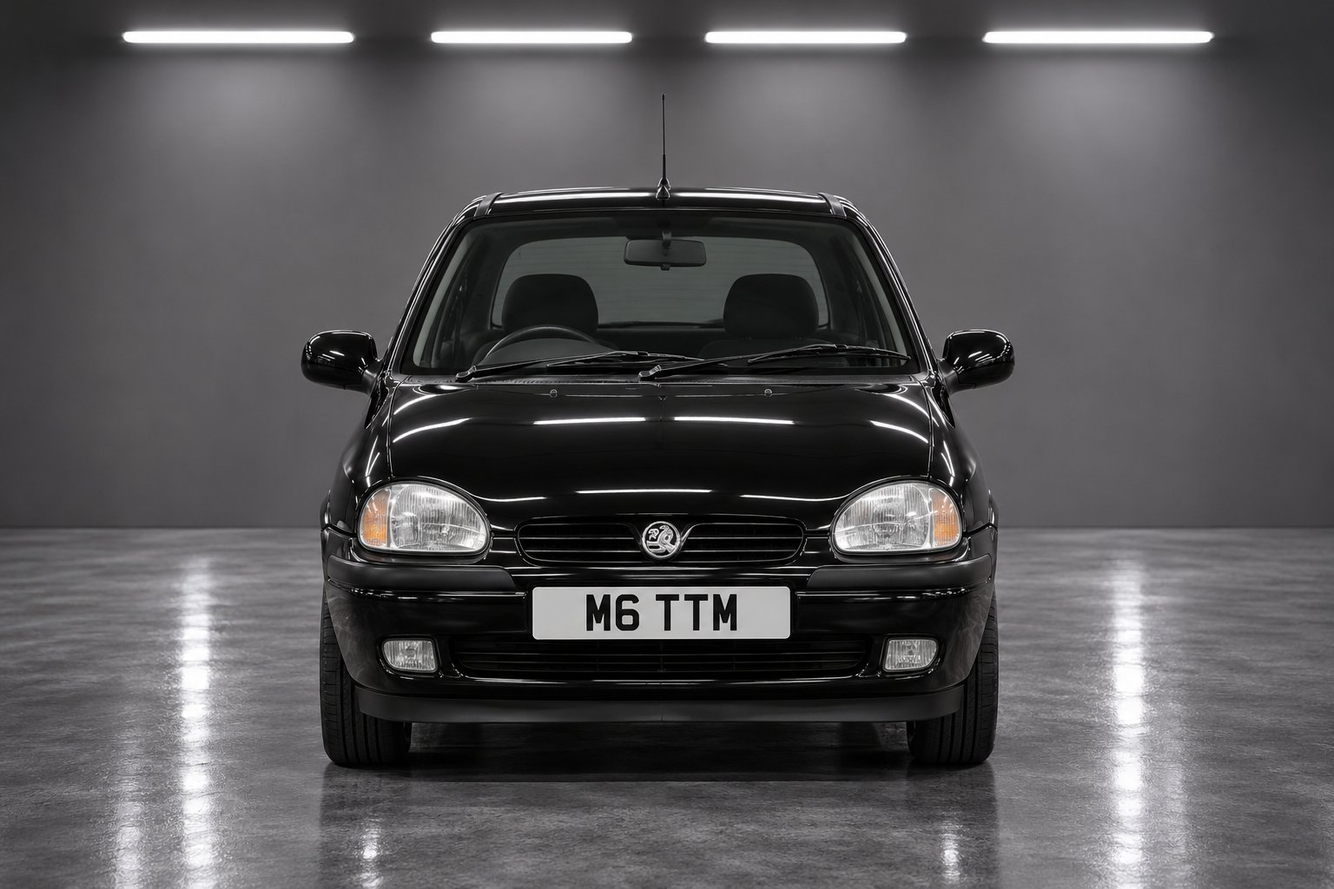
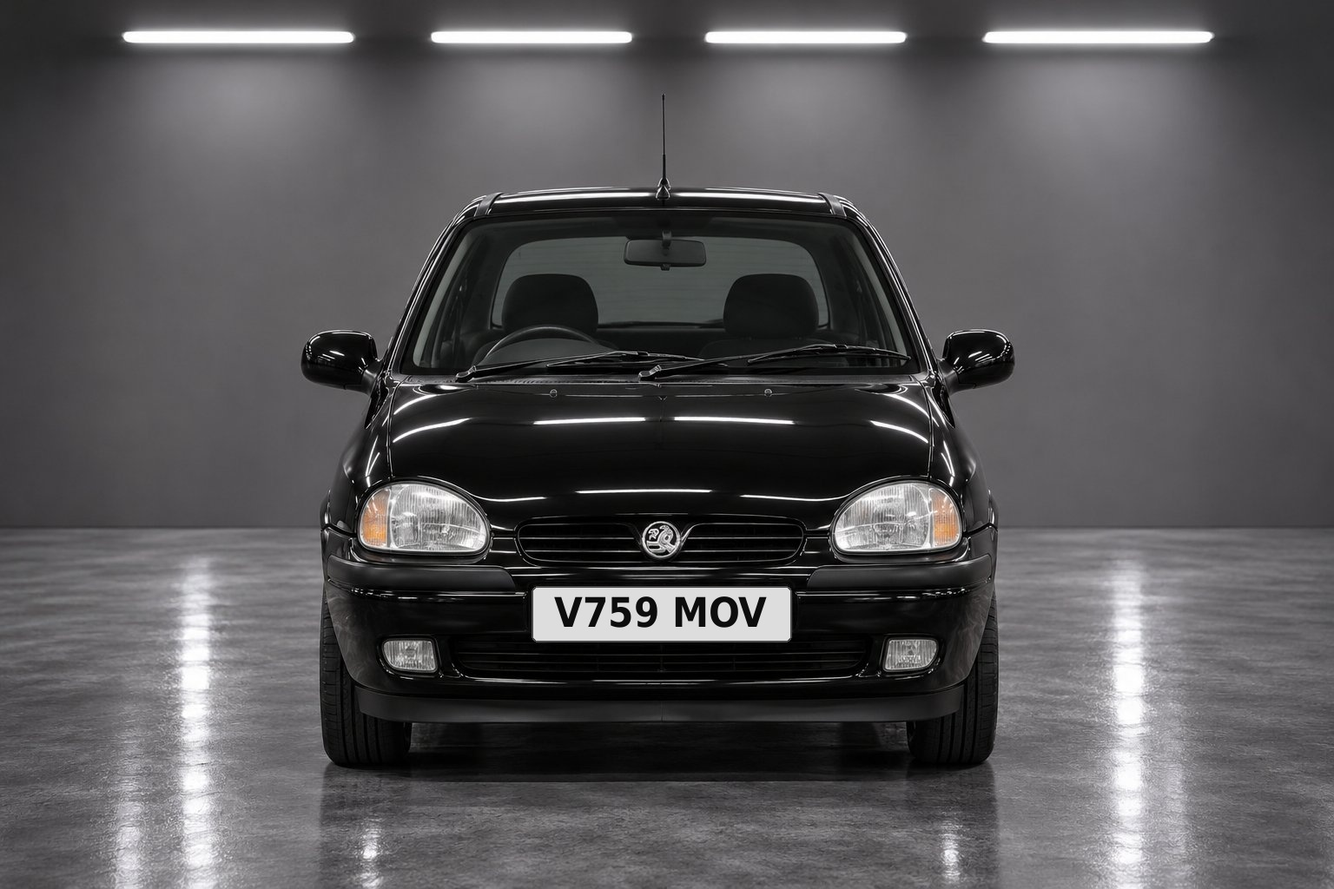
Add files via upload

Changed region(s): [[0.375, 0.6562, 0.5938, 0.75]]

diff --git a/index.html b/index.html
@@ -1,4 +1,4 @@
-<!doctype html><html lang="en"><head><meta charset="utf-8"><meta name="viewport" content="width=device-width,initial-scale=1,viewport-fit=cover"><meta name="theme-color" content="#0b0e13"><meta name="apple-mobile-web-app-capable" content="yes"><meta name="apple-mobile-web-app-title" content="MALONE GARAGE"><title>MALONE GARAGE</title><link rel="manifest" href="manifest.webmanifest?v=19"><link rel="apple-touch-icon" sizes="180x180" href="apple-touch-icon.png?v=19"><link rel="icon" type="image/png" href="icon.png?v=19"><style>
+<!doctype html><html lang="en"><head><meta charset="utf-8"><meta name="viewport" content="width=device-width,initial-scale=1,viewport-fit=cover"><meta name="theme-color" content="#0b0e13"><meta name="apple-mobile-web-app-capable" content="yes"><meta name="apple-mobile-web-app-title" content="MALONE GARAGE"><title>MALONE GARAGE</title><link rel="manifest" href="manifest.webmanifest?v=20"><link rel="apple-touch-icon" sizes="180x180" href="apple-touch-icon.png?v=19"><link rel="icon" type="image/png" href="icon.png?v=19"><style>
 :root{color-scheme:dark;--bg:#0b0e13;--card:#171c25;--line:#303744;--muted:#9ca8ba;--gold:#d7b987;--white:#f6f7f9}*{box-sizing:border-box}body{margin:0;background:var(--bg);color:var(--white);font:15px -apple-system,BlinkMacSystemFont,'Segoe UI',sans-serif}button,input,select,textarea{font:inherit}button{cursor:pointer}header{padding:28px 20px 18px;background:linear-gradient(140deg,#202631,#0b0e13);border-bottom:1px solid var(--line)}.eyebrow{letter-spacing:3px;font-size:10px;color:var(--gold);font-weight:700}.brand{font-size:27px;letter-spacing:3px;font-weight:750;margin:7px 0}.sub{color:var(--muted);font-size:12px}main{max-width:820px;margin:auto;padding:18px 16px 110px}.hero{border:1px solid #3d424c;border-radius:20px;overflow:hidden;position:relative;background:#111}.hero img{width:100%;display:block}.hero .overlay{position:absolute;inset:auto 0 0;padding:35px 18px 14px;background:linear-gradient(transparent,#080a0df0)}h2{font-size:19px;letter-spacing:.4px;margin:25px 0 13px}h3{margin:0 0 8px;font-size:16px}.stats{display:grid;grid-template-columns:repeat(3,1fr);gap:9px;margin-top:14px}.stat,.panel{border:1px solid var(--line);background:var(--card);border-radius:15px;padding:15px}.stat strong{display:block;font-size:25px;margin-top:5px}.muted{color:var(--muted)}.tiny{font-size:11px}.cars{display:grid;grid-template-columns:repeat(2,minmax(0,1fr));gap:12px}.car{border:1px solid var(--line);background:linear-gradient(#222833,#141820);border-radius:16px;overflow:hidden;text-align:left;color:white;padding:0}.car img{width:100%;height:125px;object-fit:cover;display:block}.car .details{padding:12px}.car b{display:block;font-size:14px}.car small{display:block;color:var(--muted);margin-top:4px}.plate{display:inline-block;background:#f3f3ef;color:#161616;border-radius:4px;font-weight:800;letter-spacing:1px;padding:4px 7px;margin-top:8px;font-size:11px}.event{display:flex;gap:12px;align-items:center;border-bottom:1px solid var(--line);padding:13px 0}.event:last-child{border:0}.event .when{min-width:66px;text-align:center;background:#252b36;border-radius:9px;padding:8px 5px;font-weight:750;font-size:12px}.event .when.soon{color:#f2bc72}.event .when.late{color:#ff8585}.event .body{flex:1}.event .body b{display:block;font-size:13px}.event .body small{color:var(--muted)}.btn{background:var(--gold);border:0;border-radius:11px;color:#111;padding:11px 14px;font-weight:750}.btn.secondary{background:#29313d;color:white;border:1px solid #424b59}.btn.small{padding:7px 10px;font-size:12px}.actions{display:flex;gap:8px;flex-wrap:wrap;margin-top:12px}.nav{position:fixed;bottom:0;left:0;right:0;background:#10141bed;border-top:1px solid var(--line);display:flex;justify-content:center;padding:10px 6px calc(10px + env(safe-area-inset-bottom));backdrop-filter:blur(15px);z-index:10}.nav button{flex:1;max-width:180px;background:none;color:var(--muted);border:0;font-size:12px;padding:8px}.nav button.active{color:var(--gold)}.screen{display:none}.screen.active{display:block}.back{background:none;border:0;color:var(--gold);padding:8px 0 16px}.detail-img{width:100%;max-height:290px;object-fit:cover;border-radius:16px}.fields{display:grid;grid-template-columns:1fr 1fr;gap:10px}.field label{display:block;font-size:12px;color:var(--muted);margin-bottom:6px}.field input,.field select,.field textarea{width:100%;background:#0f131a;border:1px solid #414a59;border-radius:9px;padding:11px;color:white;min-width:0}.field.full{grid-column:1/-1}.item{display:flex;justify-content:space-between;gap:8px;border-bottom:1px solid var(--line);padding:11px 0}.item:last-child{border:0}.item small{color:var(--muted)}.link{color:var(--gold)}.empty{padding:25px;text-align:center;color:var(--muted)}.notice{background:#24211b;border:1px solid #655337;border-radius:12px;padding:12px;color:#e8d4b6;font-size:12px;margin-top:12px}.pill{font-size:10px;letter-spacing:1px;color:var(--gold);text-transform:uppercase}.wide{width:100%}a{color:var(--gold)}@media(min-width:650px){.cars{grid-template-columns:repeat(3,1fr)}.car img{height:160px}}
 
 /* v1.5 showroom portraits */
@@ -7,17 +7,27 @@ header{padding:20px 18px 15px}main{width:100%;max-width:980px;padding:16px 14px 
 .reminder-state{padding:12px;background:#101722;border:1px solid #3b4758;border-radius:11px;font-size:13px;line-height:1.6;margin:12px 0}.reminder-state b{color:var(--gold)}.reminder-state.error{border-color:#a46a54}.settings-grid{display:grid;gap:12px}.settings-grid .field input{font-size:16px}
 .sold-grid{display:grid;grid-template-columns:repeat(2,minmax(0,1fr));gap:12px}.sold-card{border:1px solid var(--line);background:var(--card);border-radius:16px;overflow:hidden;min-width:0}.sold-card img{display:block;width:100%;aspect-ratio:1.4/1;object-fit:cover;cursor:zoom-in}.sold-card .details{padding:11px}.sold-card b{display:block;font-size:13px}.sold-card small{color:var(--muted)}.sold-card .field{margin-top:9px}.sold-card input,.sold-card textarea{width:100%;background:#0f131a;color:white;border:1px solid #414a59;border-radius:7px;padding:8px;font-size:14px}.sold-card textarea{resize:vertical}.sold-card summary{color:var(--gold);font-size:12px;margin-top:10px;cursor:pointer}@media(min-width:650px){.sold-grid{grid-template-columns:repeat(3,minmax(0,1fr))}}
 .sold-lightbox{position:fixed;inset:0;z-index:10000;background:rgba(3,5,9,.96);display:none;align-items:center;justify-content:center;flex-direction:column;padding:calc(60px + env(safe-area-inset-top)) 12px calc(30px + env(safe-area-inset-bottom))}.sold-lightbox.open{display:flex}.sold-lightbox img{display:block;max-width:100%;max-height:75dvh;object-fit:contain;border-radius:10px}.sold-lightbox .caption{color:#e7e9ee;font-weight:600;text-align:center;margin-top:14px}.sold-lightbox .close{position:absolute;right:18px;top:calc(16px + env(safe-area-inset-top));color:white;background:#242a34;border:1px solid #626c7a;border-radius:50%;width:45px;height:45px;font-size:28px;line-height:1;cursor:pointer}.sold-card img:focus-visible{outline:3px solid var(--gold)}
+
+/* v2.0: prevent plates overlapping subtitle text on narrow iPhone cards */
+.sold-card .details{min-width:0;display:flex;flex-direction:column;align-items:stretch;gap:5px;padding:12px 10px 14px}
+.sold-card .details b{font-size:clamp(13px,3.3vw,16px);line-height:1.3;overflow-wrap:anywhere}
+.sold-card .sold-subtitle{display:block;font-size:12px;line-height:1.4;overflow-wrap:anywhere}
+.sold-card .sold-plate-row{display:block;min-height:26px;margin-top:3px}
+.sold-card .sold-plate-row .plate{display:inline-block;position:static;margin:0;max-width:100%;font-size:12px;white-space:nowrap}
+.sold-card details{margin-top:2px}
+.sold-card summary{line-height:1.4;overflow-wrap:anywhere}
 </style></head><body><header><div class="eyebrow">PRIVATE MOTOR COLLECTION</div><div class="brand">MALONE <span style="color:var(--gold)">GARAGE</span></div><div class="sub">Your collection. Every deadline. One place.</div></header><main>
 <section id="home" class="screen active"><div class="hero brand-hero"><img src="garage-logo.jpg" alt="Malone Garage premium private motor collection logo"></div><div class="stats"><div class="stat"><span class="tiny muted">VEHICLES</span><strong>5</strong></div><div class="stat"><span class="tiny muted">NEXT 30 DAYS</span><strong id="countSoon">0</strong></div><div class="stat"><span class="tiny muted">DATES TO ADD</span><strong id="countMissing">0</strong></div></div><h2>Upcoming deadlines</h2><div class="panel" id="homeEvents"></div><h2>Your collection</h2><div class="cars" id="homeCars"></div></section>
 <section id="garage" class="screen"><h2>My garage</h2><div class="cars" id="garageCars"></div></section>
-<section id="sold" class="screen"><h2>Sold collection</h2><p class="muted">Tap any photograph to enlarge · Seven previously owned cars · A personal archive, not included in live deadlines or push reminders.</p><div class="sold-grid" id="soldCars"></div><p class="tiny muted">Showroom images are AI recreations, not photographs of the actual vehicles. M6 TTM was transferred between vehicles.</p></section><section id="upcoming" class="screen"><h2>All deadlines</h2><div class="panel" id="allEvents"></div><div class="notice">Dates are user-entered until independently verified. Government lookups are available after connecting your secure API gateway. Insurance and service dates remain manual.</div></section>
+<section id="sold" class="screen"><h2>Sold collection</h2><p class="muted">Tap any photograph to enlarge · Eight previously owned cars · A personal archive, not included in live deadlines or push reminders.</p><div class="sold-grid" id="soldCars"></div><p class="tiny muted">Showroom images are AI recreations, not photographs of the actual vehicles. M6 TTM was transferred between vehicles.</p></section><section id="upcoming" class="screen"><h2>All deadlines</h2><div class="panel" id="allEvents"></div><div class="notice">Dates are user-entered until independently verified. Government lookups are available after connecting your secure API gateway. Insurance and service dates remain manual.</div></section>
 <section id="settings" class="screen"><h2>Garage settings</h2><div class="panel"><h3>Protect your records</h3><p class="muted">Your data is stored in this browser on this device. Back it up before clearing Safari data or changing phones.</p><div class="actions"><button class="btn" onclick="backup()">Export backup</button><button class="btn secondary" onclick="document.getElementById('importFile').click()">Import backup</button><input type="file" accept="application/json" id="importFile" hidden onchange="restore(event)"></div></div><h2>iPhone push reminders</h2><div class="panel"><p class="muted">MOT, tax, insurance and service: a notification 30 days before the due date, then 7 days before if the date is still outstanding. Notifications require the secure reminder service below.</p><div class="settings-grid"><div class="field"><label>OneSignal App ID (public identifier)</label><input id="pushAppId" placeholder="xxxxxxxx-xxxx-xxxx-xxxx-xxxxxxxxxxxx" autocomplete="off"></div><div class="field"><label>Cloudflare reminder Worker URL</label><input id="pushWorkerUrl" type="url" placeholder="https://malone-reminders.yourname.workers.dev" autocomplete="off"></div></div><div class="actions"><button class="btn secondary" onclick="savePushSettings()">Save reminder connection</button><button class="btn" onclick="enablePush()">Enable iPhone notifications</button><button class="btn secondary" onclick="syncReminders()">Sync deadlines now</button></div><div id="pushStatus" class="reminder-state" role="status">Not configured. Follow PUSH-SETUP.md in the download.</div><p class="tiny muted">On iPhone: open this site in Safari → Share → Add to Home Screen → launch from the new icon → Enable. Your due dates are uploaded to your private reminder service only when you enable/sync. Do not put any secret API keys in this app.</p><div class="actions"><button class="btn secondary small" onclick="loadPushHistory()">View sent reminder history</button></div><div id="pushHistory" class="tiny muted"></div></div><h2>Government API connection</h2><div class="panel"><p class="muted">Enter the URL of your deployed private Cloudflare Worker gateway. Do not enter government API keys here.</p><div class="field"><label>Secure gateway URL</label><input id="gatewayUrl" type="url" placeholder="https://malone-garage-api.yourname.workers.dev"></div><div class="actions"><button class="btn secondary" onclick="saveGateway()">Save connection</button></div><p class="tiny muted" id="gatewayStatus"></p></div><h2>Official checks</h2><div class="panel"><p><a href="https://www.gov.uk/check-mot-history" target="_blank">DVSA MOT history ↗</a></p><p><a href="https://www.gov.uk/check-vehicle-tax" target="_blank">DVLA vehicle tax ↗</a></p><p><a href="https://www.gov.uk/get-vehicle-information-from-dvla" target="_blank">DVLA vehicle details ↗</a></p></div><div class="notice">Push alerts only work after OneSignal, Cloudflare Worker and D1 are configured and notifications are allowed on your installed iPhone app. The app cannot automatically import iPhone files.</div></section>
 <section id="detail" class="screen"><button class="back" onclick="go('garage')">← All vehicles</button><img id="detailImg" class="detail-img"><h2 id="detailTitle"></h2><div class="pill" id="detailPlate"></div><h2>Key dates & records</h2><div class="panel"><div class="fields" id="editFields"></div><div class="actions"><button class="btn wide" onclick="saveVehicle()">Save vehicle details</button></div></div><h2>Service history & notes</h2><div class="panel"><div id="history"></div><div class="fields" style="margin-top:15px"><div class="field"><label>Record date</label><input id="recDate" type="date"></div><div class="field"><label>Type</label><select id="recType"><option>Service</option><option>MOT</option><option>Repair</option><option>Insurance</option><option>Tax</option><option>Other</option></select></div><div class="field full"><label>Work carried out / notes</label><textarea id="recNote" rows="2" placeholder="Oil service, new tyres, advisories..."></textarea></div><div class="field"><label>Cost (£)</label><input id="recCost" type="number" min="0" step="0.01" placeholder="Optional"></div><div class="field"><label>Mileage</label><input id="recMiles" type="number" min="0" placeholder="Optional"></div></div><div class="actions"><button class="btn secondary wide" onclick="addRecord()">+ Add history entry</button></div></div><h2>Official records</h2><div class="panel"><p class="muted tiny">Retrieve live DVLA tax and MOT status, and DVSA MOT test history, using your secure gateway. Existing manual dates are only replaced when official data is returned.</p><button class="btn wide" id="syncBtn" onclick="syncOfficial()">↻ Refresh official records</button><div id="officialResult" class="tiny muted" style="margin-top:12px"></div></div><div class="actions"><button class="btn secondary" onclick="window.open('https://www.gov.uk/check-mot-history','_blank')">Check MOT</button><button class="btn secondary" onclick="window.open('https://www.gov.uk/check-vehicle-tax','_blank')">Check tax</button></div></section>
 </main><nav class="nav"><button data-nav="home" class="active" onclick="go('home')">⌂<br>Overview</button><button data-nav="garage" onclick="go('garage')">▤<br>Garage</button><button data-nav="sold" onclick="go('sold')">◇<br>Sold</button><button data-nav="upcoming" onclick="go('upcoming')">◷<br>Deadlines</button><button data-nav="settings" onclick="go('settings')">⚙<br>Settings</button></nav>
 <div id="soldLightbox" class="sold-lightbox" role="dialog" aria-modal="true" aria-label="Enlarged sold car photograph" onclick="closeSoldPhoto()"><button class="close" aria-label="Close enlarged photograph" onclick="closeSoldPhoto()">×</button><img id="soldLightboxImg" alt=""><div class="caption" id="soldLightboxCaption"></div></div><script>
 const defaults=[{id:'defender',name:'Land Rover Defender 90',year:2012,plate:'MJI 190',image:'defender.jpg?v=15'},{id:'mclaren',name:'McLaren 570GT',year:2018,plate:'M6 TTM',image:'mclaren.jpg?v=15'},{id:'morgan',name:'Morgan 4/4',year:2011,plate:'TJI 190',image:'morgan.jpg?v=15'},{id:'micra',name:'Nissan Micra',year:2026,plate:'DV76 YGJ',image:'micra.jpg?v=16'},{id:'porsche',name:'Porsche Cayenne E-Hybrid',year:2024,plate:'VX24 RMO',image:'porsche.jpg?v=13'}];
 const soldDefaults=[
-{id:'corsa',name:'Vauxhall Corsa B',subtitle:'V-registration · black',image:'sold-corsa.jpg'},
+{id:'corsa-blue',name:'Vauxhall Corsa B',subtitle:'Blue · three-door',image:'sold-corsa-blue.png',plate:''},
+{id:'corsa',name:'Vauxhall Corsa B',subtitle:'V-registration · black',image:'sold-corsa.jpg',plate:'V759 MOV'},
 {id:'megane',name:'Renault Mégane Convertible',subtitle:'Original shape · black',image:'sold-megane.jpg'},
 {id:'rx8',name:'Mazda RX-8',subtitle:'Black',image:'sold-rx8.jpg'},
 {id:'tt',name:'Audi TT Roadster',subtitle:'First generation · black',image:'sold-tt.jpg'},
@@ -26,10 +36,10 @@ const soldDefaults=[
 {id:'i8',name:'BMW i8',subtitle:'Dark grey · blue accents',image:'sold-i8.jpg'}];
 let soldData={};try{soldData=JSON.parse(localStorage.getItem('maloneGarageSoldV1'))||{}}catch(e){}
 function soldSave(id,field,value){if(!soldData[id])soldData[id]={};soldData[id][field]=value;localStorage.setItem('maloneGarageSoldV1',JSON.stringify(soldData))}
-function openSoldPhoto(id){const v=soldDefaults.find(x=>x.id===id);if(!v)return;const box=document.getElementById('soldLightbox');const img=document.getElementById('soldLightboxImg');img.src=v.image+'?v=18';img.alt=v.name+' showroom recreation';document.getElementById('soldLightboxCaption').textContent=v.name+' · M6 TTM';box.classList.add('open');document.body.style.overflow='hidden'}
+function openSoldPhoto(id){const v=soldDefaults.find(x=>x.id===id);if(!v)return;const box=document.getElementById('soldLightbox');const img=document.getElementById('soldLightboxImg');img.src=v.image+'?v=20';img.alt=v.name+' showroom recreation';document.getElementById('soldLightboxCaption').textContent=v.name+(v.plate===undefined?' · M6 TTM':(v.plate?' · '+v.plate:''));box.classList.add('open');document.body.style.overflow='hidden'}
 function closeSoldPhoto(){document.getElementById('soldLightbox').classList.remove('open');document.body.style.overflow=''}
 document.addEventListener('keydown',e=>{if(e.key==='Escape')closeSoldPhoto()});
-function renderSold(){document.getElementById('soldCars').innerHTML=soldDefaults.map(v=>{const d=soldData[v.id]||{};return `<article class="sold-card"><img loading="lazy" src="${v.image}?v=18" alt="${esc(v.name)} showroom recreation. Tap to enlarge" role="button" tabindex="0" onclick="openSoldPhoto('${v.id}')" onkeydown="if(event.key==='Enter'||event.key===' '){event.preventDefault();openSoldPhoto('${v.id}')}"><div class="details"><b>${esc(v.name)}</b><small>${esc(v.subtitle)}</small><div class="plate">M6 TTM</div><details><summary>Ownership details & notes</summary><div class="field"><label>Purchased</label><input type="date" value="${esc(d.purchased||'')}" onchange="soldSave('${v.id}','purchased',this.value)"></div><div class="field"><label>Sold</label><input type="date" value="${esc(d.sold||'')}" onchange="soldSave('${v.id}','sold',this.value)"></div><div class="field"><label>Purchase price (£)</label><input type="number" min="0" value="${esc(d.purchasePrice||'')}" onchange="soldSave('${v.id}','purchasePrice',this.value)"></div><div class="field"><label>Sale price (£)</label><input type="number" min="0" value="${esc(d.salePrice||'')}" onchange="soldSave('${v.id}','salePrice',this.value)"></div><div class="field"><label>Memories / notes</label><textarea rows="3" onchange="soldSave('${v.id}','notes',this.value)">${esc(d.notes||'')}</textarea></div></details></div></article>`}).join('')}
+function renderSold(){document.getElementById('soldCars').innerHTML=soldDefaults.map(v=>{const d=soldData[v.id]||{};return `<article class="sold-card"><img loading="lazy" src="${v.image}?v=20" alt="${esc(v.name)} showroom recreation. Tap to enlarge" role="button" tabindex="0" onclick="openSoldPhoto('${v.id}')" onkeydown="if(event.key==='Enter'||event.key===' '){event.preventDefault();openSoldPhoto('${v.id}')}"><div class="details"><b>${esc(v.name)}</b><small class="sold-subtitle">${esc(v.subtitle)}</small>${(v.plate===undefined||v.plate)?`<div class="sold-plate-row"><span class="plate">${esc(v.plate===undefined?"M6 TTM":v.plate)}</span></div>`:""}<details><summary>Ownership details & notes</summary><div class="field"><label>Purchased</label><input type="date" value="${esc(d.purchased||'')}" onchange="soldSave('${v.id}','purchased',this.value)"></div><div class="field"><label>Sold</label><input type="date" value="${esc(d.sold||'')}" onchange="soldSave('${v.id}','sold',this.value)"></div><div class="field"><label>Purchase price (£)</label><input type="number" min="0" value="${esc(d.purchasePrice||'')}" onchange="soldSave('${v.id}','purchasePrice',this.value)"></div><div class="field"><label>Sale price (£)</label><input type="number" min="0" value="${esc(d.salePrice||'')}" onchange="soldSave('${v.id}','salePrice',this.value)"></div><div class="field"><label>Memories / notes</label><textarea rows="3" onchange="soldSave('${v.id}','notes',this.value)">${esc(d.notes||'')}</textarea></div></details></div></article>`}).join('')}
 const keys=[['mot','MOT expiry'],['tax','Vehicle tax renewal'],['insurance','Insurance renewal'],['service','Next service due']];let data;try{data=JSON.parse(localStorage.getItem('maloneGarageV1'))}catch(e){}if(!Array.isArray(data))data=defaults.map(x=>({...x,records:[]}));for(const d of defaults){if(!data.some(x=>x.id===d.id))data.push({...d,records:[]})}for(const d of defaults){const v=data.find(x=>x.id===d.id);if(v && (d.id==='mclaren'||d.id==='micra') && !String(v.plate||'').trim())v.plate=d.plate}for(const d of defaults){const v=data.find(x=>x.id===d.id);if(v)v.image=d.image}let selected='defender';function persist(){localStorage.setItem('maloneGarageV1',JSON.stringify(data));queueReminderSync()}function esc(s){return String(s??'').replace(/[&<>"']/g,c=>({'&':'&amp;','<':'&lt;','>':'&gt;','"':'&quot;',"'":'&#39;'}[c]))}function dateLabel(d){return new Date(d+'T12:00:00').toLocaleDateString('en-GB',{day:'numeric',month:'short',year:'numeric'})}function days(d){const today=new Date();today.setHours(12,0,0,0);return Math.round((new Date(d+'T12:00:00')-today)/86400000)}function events(){return data.flatMap(v=>keys.filter(([k])=>v[k]).map(([k,label])=>({v,label,date:v[k],days:days(v[k])}))).sort((a,b)=>a.days-b.days)}function eventHTML(e){return `<div class="event"><div class="when ${e.days<0?'late':e.days<=30?'soon':''}">${e.days<0?Math.abs(e.days)+'d late':e.days===0?'TODAY':e.days+' days'}</div><div class="body"><b>${esc(e.label)}</b><small>${esc(e.v.name)} · ${dateLabel(e.date)}</small></div><button class="btn secondary small" onclick="openCar('${e.v.id}')">View</button></div>`}function carHTML(v){return `<button class="car" onclick="openCar('${v.id}')"><img src="${v.image}" alt="${esc(v.name)}"><div class="details"><b>${esc(v.name)}</b><small>${v.year} · ${keys.filter(([k])=>v[k]).length}/4 dates recorded</small>${v.plate?`<span class="plate">${esc(v.plate)}</span>`:''}</div></button>`}function render(){document.getElementById('homeCars').innerHTML=data.map(carHTML).join('');document.getElementById('garageCars').innerHTML=data.map(carHTML).join('');const es=events();document.getElementById('homeEvents').innerHTML=es.length?es.slice(0,5).map(eventHTML).join(''):'<div class="empty">No deadlines entered yet. Select a vehicle to add its dates.</div>';document.getElementById('allEvents').innerHTML=es.length?es.map(eventHTML).join(''):'<div class="empty">No dates entered yet.</div>';document.getElementById('countSoon').textContent=es.filter(e=>e.days>=0&&e.days<=30).length;document.getElementById('countMissing').textContent=data.reduce((n,v)=>n+keys.filter(([k])=>!v[k]).length,0)}function saveGateway(){const el=document.getElementById('gatewayUrl');const url=el.value.trim().replace(/\/$/,'');if(url&&!/^https:\/\//i.test(url)){alert('Use a secure https:// gateway URL.');return}localStorage.setItem('maloneGarageGateway',url);document.getElementById('gatewayStatus').textContent=url?'Gateway URL saved on this device.':'Gateway cleared.'}
 async function syncOfficial(){const v=data.find(x=>x.id===selected),url=localStorage.getItem('maloneGarageGateway');if(!url){alert('First configure your secure gateway in Settings.');return}const plate=document.getElementById('f_plate').value.replace(/[^A-Za-z0-9]/g,'').toUpperCase();if(!plate){alert('Enter the vehicle registration first.');return}const out=document.getElementById('officialResult'),btn=document.getElementById('syncBtn');btn.disabled=true;out.textContent='Checking government records…';try{const r=await fetch(url+'/lookup?registration='+encodeURIComponent(plate));const result=await r.json();if(!r.ok)throw Error(result.error||'Lookup failed');const d=result.dvla||{};v.plate=plate;if(d.motExpiry)v.mot=d.motExpiry;if(d.taxDueDate)v.tax=d.taxDueDate;v.official={checked:new Date().toISOString(),dvla:d,dvsa:result.dvsa||null,errors:result.errors||[]};persist();openCar(selected);const mot=(result.dvsa?.motTests||[]);document.getElementById('officialResult').innerHTML='<b>Last checked:</b> '+esc(new Date().toLocaleString('en-GB'))+'<p>DVLA: '+esc(d.taxStatus||'No tax status')+' · MOT: '+esc(d.motStatus||'No MOT status')+'</p>'+ (mot.length?'<p>DVSA: '+mot.length+' MOT test records returned. Latest: '+esc(mot[0].completedDate||'date unavailable')+'</p>':'<p>DVSA history not available or not configured.</p>')+(result.errors?.length?'<p>'+esc(result.errors.join('; '))+'</p>':'');}catch(e){out.textContent='Could not refresh: '+e.message}finally{btn.disabled=false}}
 function go(s){document.querySelectorAll('.screen').forEach(x=>x.classList.toggle('active',x.id===s));document.querySelectorAll('[data-nav]').forEach(x=>x.classList.toggle('active',x.dataset.nav===s));if(s!=='detail')render();if(s==='sold')renderSold();if(s==='settings'){document.getElementById('gatewayUrl').value=localStorage.getItem('maloneGarageGateway')||'';document.getElementById('pushAppId').value=localStorage.getItem('malonePushAppId')||'';document.getElementById('pushWorkerUrl').value=localStorage.getItem('malonePushWorkerUrl')||'';}scrollTo(0,0)}function openCar(id){selected=id;const v=data.find(x=>x.id===id);document.getElementById('detailImg').src=v.image;document.getElementById('detailTitle').textContent=v.name;document.getElementById('detailPlate').textContent=v.plate||'REGISTRATION NOT ADDED';document.getElementById('editFields').innerHTML=`<div class="field"><label>Registration</label><input id="f_plate" value="${esc(v.plate)}"></div><div class="field"><label>Current mileage</label><input id="f_mileage" type="number" min="0" value="${esc(v.mileage)}"></div>${keys.map(([k,label])=>`<div class="field"><label>${label}</label><input type="date" id="f_${k}" value="${esc(v[k])}"></div>`).join('')}<div class="field full"><label>Insurer / policy reference</label><input id="f_insurer" value="${esc(v.insurer)}"></div><div class="field full"><label>Service interval / other notes</label><textarea id="f_notes" rows="3">${esc(v.notes)}</textarea></div>`;renderHistory();go('detail')}function saveVehicle(){const v=data.find(x=>x.id===selected);for(const k of ['plate','mileage','mot','tax','insurance','service','insurer','notes'])v[k]=document.getElementById('f_'+k).value.trim();persist();openCar(selected);alert('Vehicle details saved on this device.')}function renderHistory(){const v=data.find(x=>x.id===selected);document.getElementById('history').innerHTML=(v.records||[]).length?v.records.map((r,i)=>`<div class="item"><div><b>${esc(r.type)} · ${dateLabel(r.date)}</b><div class="muted tiny">${esc(r.note)} ${r.miles?' · '+esc(r.miles)+' miles':''} ${r.cost?' · £'+esc(r.cost):''}</div></div><button class="btn small secondary" onclick="deleteRecord(${i})">Delete</button></div>`).join(''):'<p class="muted tiny">No service or repair records yet.</p>'}function addRecord(){const date=document.getElementById('recDate').value;if(!date){alert('Please choose a date.');return}const v=data.find(x=>x.id===selected);v.records=v.records||[];v.records.unshift({date,type:document.getElementById('recType').value,note:document.getElementById('recNote').value,cost:document.getElementById('recCost').value,miles:document.getElementById('recMiles').value});persist();openCar(selected)}function deleteRecord(i){if(!confirm('Delete this record?'))return;data.find(x=>x.id===selected).records.splice(i,1);persist();renderHistory()}function backup(){const blob=new Blob([JSON.stringify({app:'MALONE GARAGE',version:1,exported:new Date().toISOString(),vehicles:data,sold:soldData},null,2)],{type:'application/json'});const a=document.createElement('a');a.href=URL.createObjectURL(blob);a.download='malone-garage-backup-'+new Date().toISOString().slice(0,10)+'.json';a.click();setTimeout(()=>URL.revokeObjectURL(a.href),2000)}async function restore(ev){const f=ev.target.files[0];if(!f)return;try{const obj=JSON.parse(await f.text());if(!Array.isArray(obj.vehicles)||!obj.vehicles.every(v=>v.id&&v.name))throw Error('Invalid backup');if(!confirm('Replace your current saved records with this backup?'))return;data=obj.vehicles;if(obj.sold&&typeof obj.sold==='object'&&!Array.isArray(obj.sold)){soldData=obj.sold;localStorage.setItem('maloneGarageSoldV1',JSON.stringify(soldData))}persist();go('home');alert('Backup imported.')}catch(e){alert('Could not import this backup: '+e.message)}ev.target.value=''}// Existing vehicle data remains in maloneGarageV1, unchanged across upgrades.
